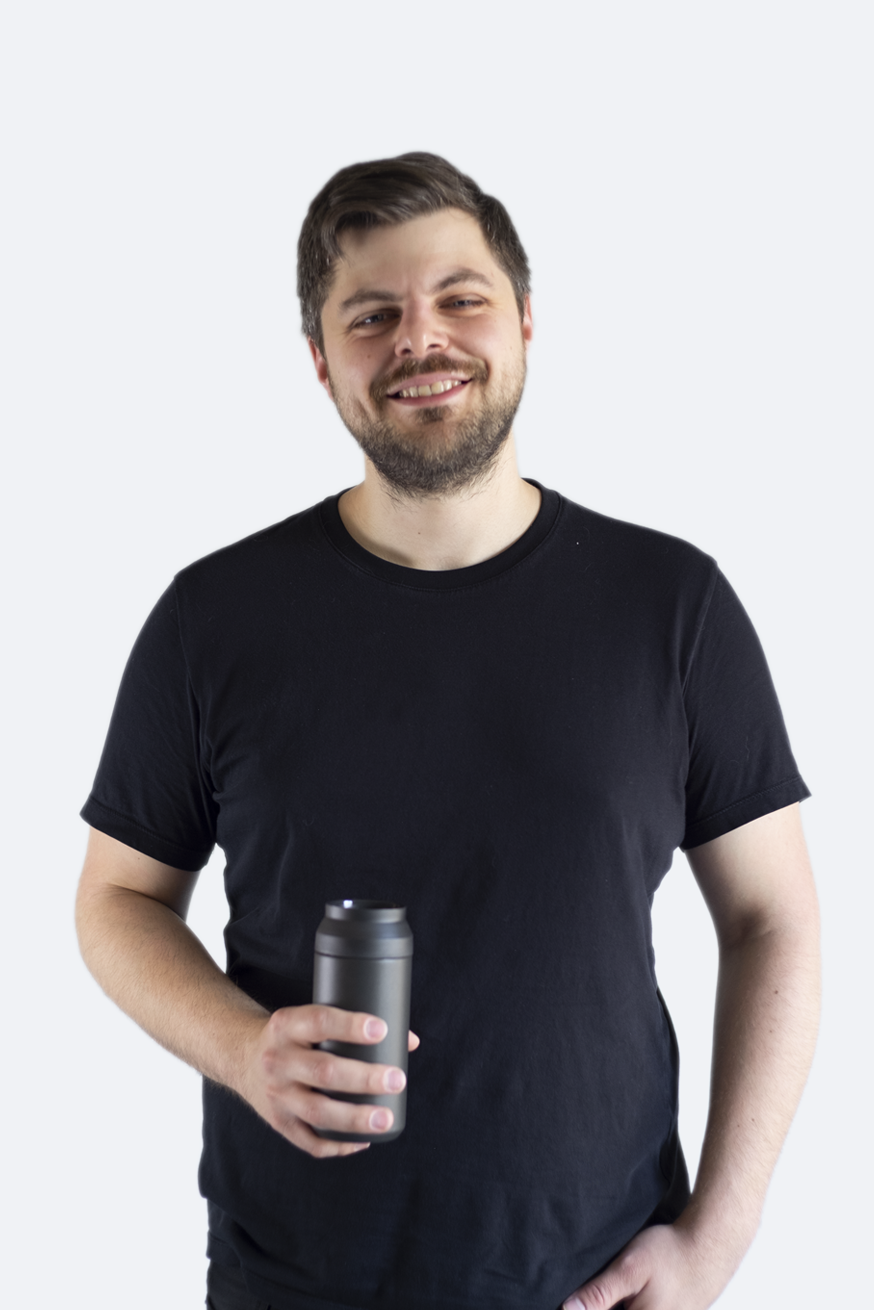
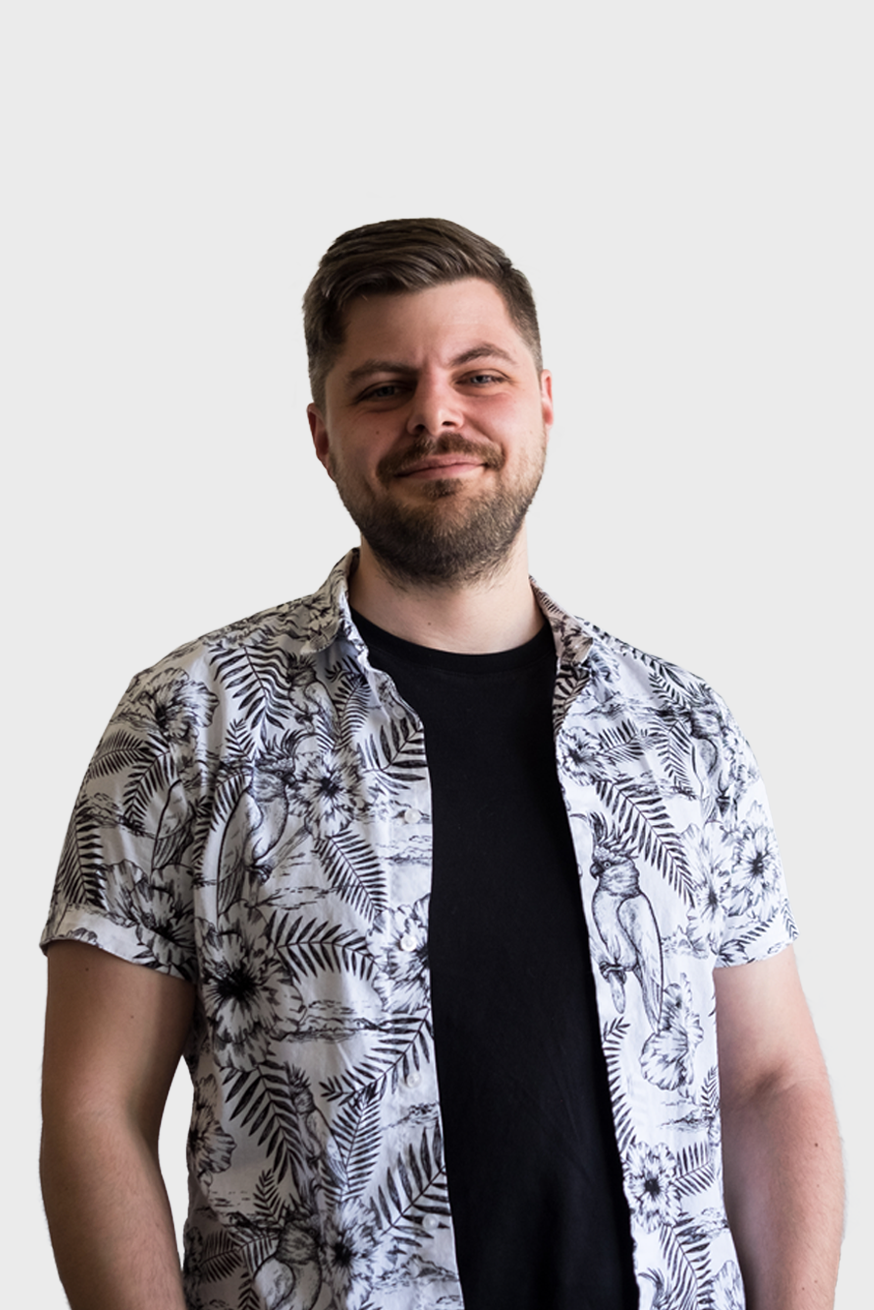
profiles

diff --git a/src/pages/about/index.js b/src/pages/about/index.js
@@ -26,21 +26,21 @@ class About extends Component {
         <Hero headline="About Us" subhead="We're a cool bunch of folks who abosolutely love product"/>
 
         <Transporter name="member-team" show={true} duration={500} properties={[]}>
-          <AboutBigImage bgImage={require("../../assets/team/team.jpg")} className="group-photo"/>
+          <AboutBigImage bgImage={require("../../assets/team/team-1.jpg")} className="group-photo"/>
         </Transporter>
         <Fade bottom distance="30px" duration={500}>
-        <AboutMemberLeft className="zach-member" name="Zach Smith" title="Founder" description="Lorem ipsum dolor sit amet, consectetur adipiscing elit, sed do eiusmod tempor incididunt ut labore et dolore magna aliqua. Ut enim ad minim veniam, quis nostrud exercitation ullamco laboris nisi ut aliquip ex ea commodo consequat." interests={["Hiking", "Climbing"]} image={require("../../assets/team/1.jpg")}/>
-        <AboutMemberRight className="adrian-member" name="Adrian Del Balso" title="Founder" description="Lorem ipsum dolor sit amet, consectetur adipiscing elit, sed do eiusmod tempor incididunt ut labore et dolore magna aliqua. Ut enim ad minim veniam, quis nostrud exercitation ullamco laboris nisi ut aliquip ex ea commodo consequat." interests={["this", "that"]} image={require("../../assets/team/adrian-grey.png")}/>
+        <AboutMemberLeft className="zach-member" name="Zach Smith" title="Founder" description="Lorem ipsum dolor sit amet, consectetur adipiscing elit, sed do eiusmod tempor incididunt ut labore et dolore magna aliqua. Ut enim ad minim veniam, quis nostrud exercitation ullamco laboris nisi ut aliquip ex ea commodo consequat." interests={["Hiking", "Climbing"]} image={require("../../assets/team/zach.png")}/>
+        <AboutMemberRight className="adrian-member" name="Adrian Del Balso" title="Founder" description="Lorem ipsum dolor sit amet, consectetur adipiscing elit, sed do eiusmod tempor incididunt ut labore et dolore magna aliqua. Ut enim ad minim veniam, quis nostrud exercitation ullamco laboris nisi ut aliquip ex ea commodo consequat." interests={["this", "that"]} image={require("../../assets/team/adrian.png")}/>
 
-        <AboutMemberHistory bgImage={require("../../assets/team/team.jpg")} className="zach-adrian" description="Zach and Adrian have written over 1M lines of code together."/>
+        <AboutMemberHistory bgImage={require("../../assets/team/team-1.jpg")} className="zach-adrian" description="Zach and Adrian have written over 1M lines of code together."/>
 
-        <AboutMemberLeft className="zach-eugene" name="Eugene Butler" title="Senior Developer" description="Lorem ipsum dolor sit amet, consectetur adipiscing elit, sed do eiusmod tempor incididunt ut labore et dolore magna aliqua. Ut enim ad minim veniam, quis nostrud exercitation ullamco laboris nisi ut aliquip ex ea commodo consequat." interests={["this", "that"]} image={require("../../assets/team/3.jpg")}/>
+        <AboutMemberLeft className="zach-eugene" name="Eugene Butler" title="Senior Developer" description="Lorem ipsum dolor sit amet, consectetur adipiscing elit, sed do eiusmod tempor incididunt ut labore et dolore magna aliqua. Ut enim ad minim veniam, quis nostrud exercitation ullamco laboris nisi ut aliquip ex ea commodo consequat." interests={["this", "that"]} image={require("../../assets/team/eugene.png")}/>
 
 
-        <AboutMemberRight className="alana-member" name="Alana Simoncelli" title="Senior Developer" description="Lorem ipsum dolor sit amet, consectetur adipiscing elit, sed do eiusmod tempor incididunt ut labore et dolore magna aliqua. Ut enim ad minim veniam, quis nostrud exercitation ullamco laboris nisi ut aliquip ex ea commodo consequat." interests={["this", "that"]} image={require("../../assets/team/4.jpg")}/>
-        <AboutMemberLeft className="taylor-member" name="Taylor Zanke" title="Product Designer" description="Lorem ipsum dolor sit amet, consectetur adipiscing elit, sed do eiusmod tempor incididunt ut labore et dolore magna aliqua. Ut enim ad minim veniam, quis nostrud exercitation ullamco laboris nisi ut aliquip ex ea commodo consequat." interests={["this", "that"]} image={require("../../assets/team/5.jpg")}/>
-        <AboutMemberHistory bgImage={require("../../assets/team/team.jpg")} className="eugene-alana" description="Eugene and Alana have built 12 products together."/>
-        <AboutMemberHistory bgImage={require("../../assets/team/team.jpg")} className="taylor-adrian" description="Taylor and Adrian have designed 1,000 user flows together."/>
+        <AboutMemberRight className="alana-member" name="Alana Simoncelli" title="Senior Developer" description="Lorem ipsum dolor sit amet, consectetur adipiscing elit, sed do eiusmod tempor incididunt ut labore et dolore magna aliqua. Ut enim ad minim veniam, quis nostrud exercitation ullamco laboris nisi ut aliquip ex ea commodo consequat." interests={["this", "that"]} image={require("../../assets/team/alana.png")}/>
+        <AboutMemberLeft className="taylor-member" name="Taylor Zanke" title="Product Designer" description="Lorem ipsum dolor sit amet, consectetur adipiscing elit, sed do eiusmod tempor incididunt ut labore et dolore magna aliqua. Ut enim ad minim veniam, quis nostrud exercitation ullamco laboris nisi ut aliquip ex ea commodo consequat." interests={["this", "that"]} image={require("../../assets/team/taylor.png")}/>
+        <AboutMemberHistory bgImage={require("../../assets/team/team-1.jpg")} className="eugene-alana" description="Eugene and Alana have built 12 products together."/>
+        <AboutMemberHistory bgImage={require("../../assets/team/team-1.jpg")} className="taylor-adrian" description="Taylor and Adrian have designed 1,000 user flows together."/>
         <WorkTextOpener className="workImage" list={["260 Ainslie Street"]} paragraph="Lorem ipsum dolor sit amet, consectetur adipiscing elit, sed do eiusmod tempor incididunt ut labore et dolore magna aliqua. Ut enim ad minim veniam, quis nostrud exercitation ullamco laboris nisi ut aliquip ex ea commodo consequat."/>
         <WorkTogether headline="Let's get to know each other"/>
         </Fade>

diff --git a/src/pages/motivote/index.js b/src/pages/motivote/index.js
@@ -12,8 +12,10 @@ import WorkTextQuote from '../../components/WorkTextQuote';
 import WorkTextMetric from '../../components/WorkTextMetric';
 import WorkNextProject from '../../components/WorkNextProject';
 import WorkTogether from '../../components/WorkTogether';
-
-class Betterfin extends Component {
+import { CSSTransition, TransitionGroup } from 'react-transition-group'
+import { Transporter } from '../../orbit'
+import Fade from 'react-reveal/Fade';
+class Motivote extends Component {
   state = {
     hovered: undefined,
     route: 'motivote'
@@ -25,9 +27,13 @@ class Betterfin extends Component {
 
     return (
       <>
-        <Hero className="betterfin-hero"/>
-        <div className="content-container">
-          <WorkTextOpener list={["Digital Product", "UX/UI"]} paragraph="Betterfin is a service for business owners to get educated on small business lending and navigate commercial products with confidence. They provide transparency into lending through data analytics to help owners secure business financing they understand."/>
+        <Transporter name="caseStudy3" show={true} duration={500} properties={['margin']}>
+          <div style={{ width: '100%', minHeight: '1vh' }}>
+            <Hero headline="motivote" bgImage={require("../../assets/projects/motivote/motivote-hero.png")} className="project-hero motivote-hero"/>
+          </div>
+        </Transporter>
+        <Fade bottom distance="30px" duration={500}>
+          <WorkTextOpener list={["Digital Product", "UX/UI", "Branding", "Strategy"]} paragraph="Betterfin is a service for business owners to get educated on small business lending and navigate commercial products with confidence. They provide transparency into lending through data analytics to help owners secure business financing they understand."/>
           <WorkBigImage className="workImage"/>
           <WorkTextCentered title="Building Trust" paragraph="Betterfin had built complex tech. They were frustrated that it was not packaged into a product that could build trust with their customers, satisfy their investors, and - of course - make their team proud. We worked closely with them to create a powerful, clean and polished product."/>
           <WorkImageLeft image="" headline="Hello Small Business!" description="Betterfin exchanges data for value, and their onboarding flow captures that data in a clean and efficient manner."/>
@@ -36,11 +42,11 @@ class Betterfin extends Component {
           <WorkTextMetric metricNumber="2x" metricName="Increased Conversion"/>
           <WorkBigImage className="workImage"/>
           <WorkNextProject className="next-strive" projectName="Strive Digital" projectType="Digital Product" projectIndustry="Advocacy Tech"/>
-        </div>
         <WorkTogether headline="Let's get to know each other"/>
+        </Fade>
       </>
     )
   }
 }
 
-export default Betterfin;
+export default Motivote;

diff --git a/src/styles/styles.scss b/src/styles/styles.scss
@@ -162,24 +162,26 @@ body {
 // PEEK STYLES
 
 .peek-case-study {
-  width: 40vw;
-  height: 30vw;
-  background: $bgColorWorkCard;
+  width: 30vw;
+  height: 20vw;
   position: fixed;
   opacity: 0;
   &.peek-case-study1 {
     left: 40vw;
-    top: -20vw;
+    top: -5vw;
+    background: $bgColorWorkCard;
   }
   &.peek-case-study2 {
+    background: #FFF4FA;
     position: fixed;
     top: 50%;
     left: 50%;
     -webkit-transform: translate(-50%, -50%);
   }
   &.peek-case-study3 {
+    background: #F3F4EF;
     left: 20vw;
-    bottom: -20vw;
+    bottom: -5vw;
   }
 }
 .peek-member-image {
@@ -263,6 +265,13 @@ body {
   }
     .peek-case-study.peeked {
       opacity: 1;
+      img {
+        position: absolute;
+        height: 100%;
+        top: 50%;
+        left: 50%;
+        -webkit-transform: translate(-50%, -50%);
+      }
       &.peek-case-study1 {
         -webkit-transform: translateX($buffer) translateY($buffer);
       }
@@ -271,13 +280,6 @@ body {
         top: 50%;
         left: 50%;
         -webkit-transform: translate(-50%, -50%);
-        img {
-          position: absolute;
-          height: 100%;
-          top: 50%;
-          left: 50%;
-          -webkit-transform: translate(-50%, -50%);
-        }
       }
       &.peek-case-study3 {
         -webkit-transform: translateX($buffer) translateY($buffer);
@@ -372,12 +374,18 @@ body {
   }
   &.project-hero {
     background: $bgColorWorkCard;
+    &.motivote-hero {
+      background: #F3F4EF;
+    }
+    &.strive-hero {
+      background: #FFF4FA;
+    }
     .headline {
       display: none;
     }
     img.hero-image {
       position: absolute;
-      height: 100%;
+      width: 100%;
       top: 50%;
       left: 50%;
       -webkit-transform: translate(-50%, -50%);
@@ -412,9 +420,15 @@ body {
   line-height: $lineHeightDesktop;
   position: relative;
   overflow: hidden;
+  &.motivote-card {
+    background: #F3F4EF;
+  }
+  &.strive-card {
+    background: #FFF4FA;
+  }
   .work-card-image, .work-big-image {
     position: absolute;
-    height: 100%;
+    width: 100%;
     top: 50%;
     left: 50%;
     -webkit-transform: translate(-50%, -50%);

diff --git a/src/components/Peek.js b/src/components/Peek.js
@@ -32,14 +32,18 @@ class Peek extends Component {
         </Transporter>
 
         <Transporter name="caseStudy2" properties={['opacity']} show={peekedWork} duration={100}>
-          <div className="peek-case-study peek-case-study2 peeked" />
+          <div className="peek-case-study peek-case-study2 peeked">
+          <img src={require("../assets/projects/strive/strive-hero.png")}/>
+          </div>
         </Transporter>
         <Transporter name="caseStudy2" properties={['opacity']} show={!peekedWork} duration={100}>
           <div className="peek-case-study peek-case-study2 unpeeked" />
         </Transporter>
 
         <Transporter name="caseStudy3" properties={['opacity']} show={peekedWork} duration={150}>
-          <div className="peek-case-study peek-case-study3 peeked" />
+          <div className="peek-case-study peek-case-study3 peeked">
+          <img src={require("../assets/projects/motivote/motivote-hero.png")}/>
+          </div>
         </Transporter>
         <Transporter name="caseStudy3" properties={['opacity']} show={!peekedWork} duration={150}>
           <div className="peek-case-study peek-case-study3 unpeeked" />
@@ -52,12 +56,12 @@ class Peek extends Component {
       {route !== 'about' && <>
         <Transporter name="member-team" properties={['opacity', 'margin']} show={peekedAbout} duration={250}>
           <div className="peek-member-image peek-member-team peeked">
-            <img src={require("../assets/team/team.jpg")} />
+            <img src={require("../assets/team/team-1.jpg")} />
           </div>
         </Transporter>
         <Transporter name="member-team" properties={['opacity', 'margin']} show={!peekedAbout} duration={250}>
           <div className="peek-member-image peek-member-team unpeeked">
-            <img src={require("../assets/team/team.jpg")} />
+            <img src={require("../assets/team/team-1.jpg")} />
           </div>
         </Transporter>
 

diff --git a/src/pages/work/index.js b/src/pages/work/index.js
@@ -29,12 +29,12 @@ class Work extends Component {
         </Link>
         <Link to="../strive" className="work-card-link">
           <Transporter name="caseStudy2" show={true} duration={500} properties={['margin']}>
-            <WorkCard projectName="Strive Digital" projectType="Digital Product" projectIndustry="Advocacy Tech"/>
+            <WorkCard bgImage={require("../../assets/projects/strive/strive-hero.png")} className="strive-card" projectName="Strive Digital" projectType="Digital Product" projectIndustry="Advocacy Tech"/>
           </Transporter>
         </Link>
         <Link to="../motivote" className="work-card-link">
           <Transporter name="caseStudy3" show={true} duration={250} properties={['margin']}>
-            <WorkCard projectName="Motivote" projectType="Digital Product" projectIndustry="Advocacy Tech"/>
+            <WorkCard bgImage={require("../../assets/projects/motivote/motivote-hero.png")} className="motivote-card" projectName="Motivote" projectType="Digital Product" projectIndustry="Advocacy Tech"/>
           </Transporter>
         </Link>
         <Fade bottom distance="30px" duration={500}>

diff --git a/src/pages/strive/index.js b/src/pages/strive/index.js
@@ -29,7 +29,7 @@ class Strive extends Component {
     return (
       <>
       <Transporter name="caseStudy2" show={true} duration={250} properties={[]}>
-        <Hero className="project-hero strive-hero"/>
+        <Hero headline="strive" bgImage={require("../../assets/projects/strive/strive-hero.png")} className="project-hero strive-hero"/>
       </Transporter>
       <Fade bottom distance="30px" duration={500}>
           <WorkTextOpener list={["Digital Product", "UX/UI"]} paragraph="Strive Digital is a service for business owners to get educated on small business lending and navigate commercial products with confidence. They provide transparency into lending through data analytics to help owners secure business financing they understand."/>
